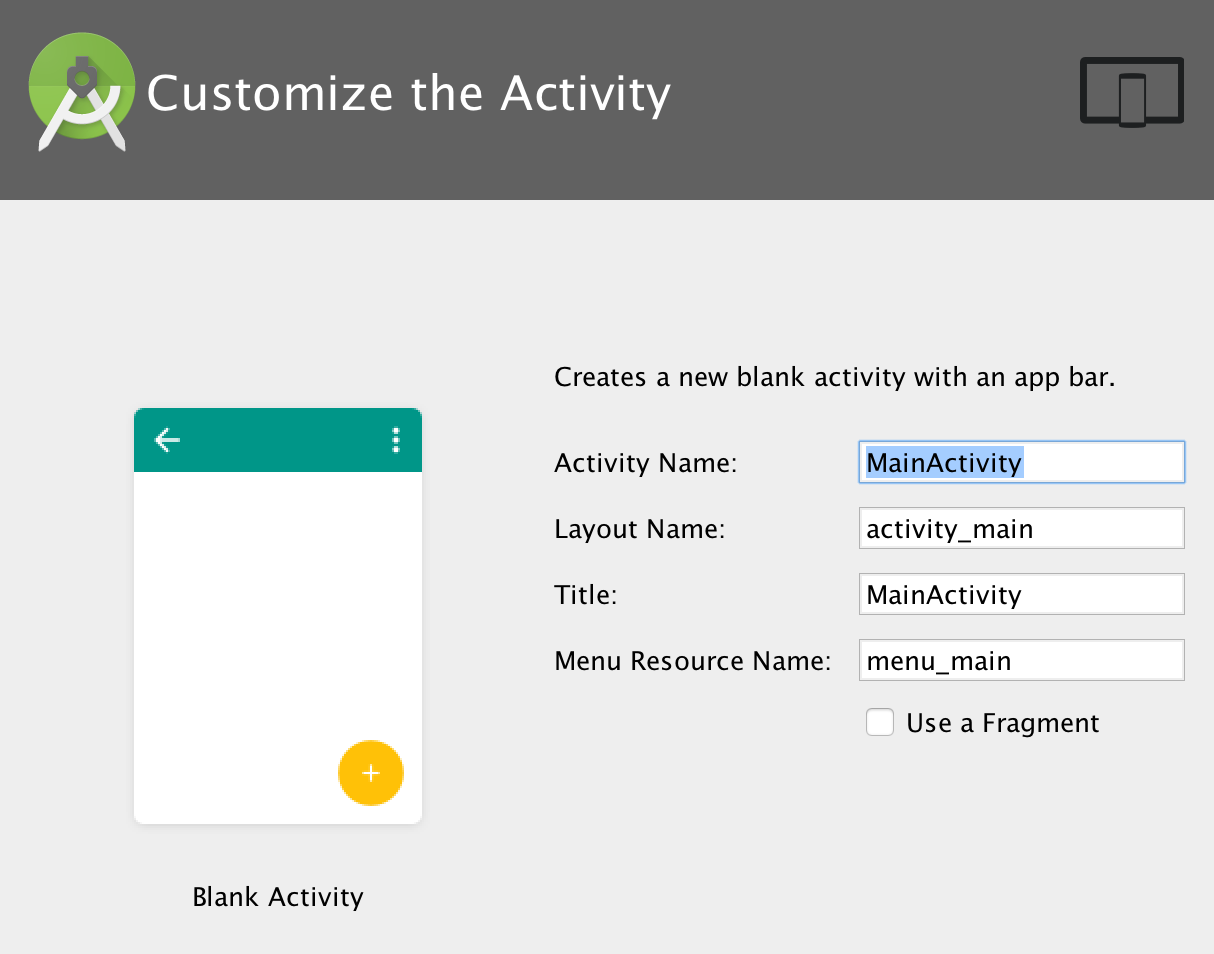
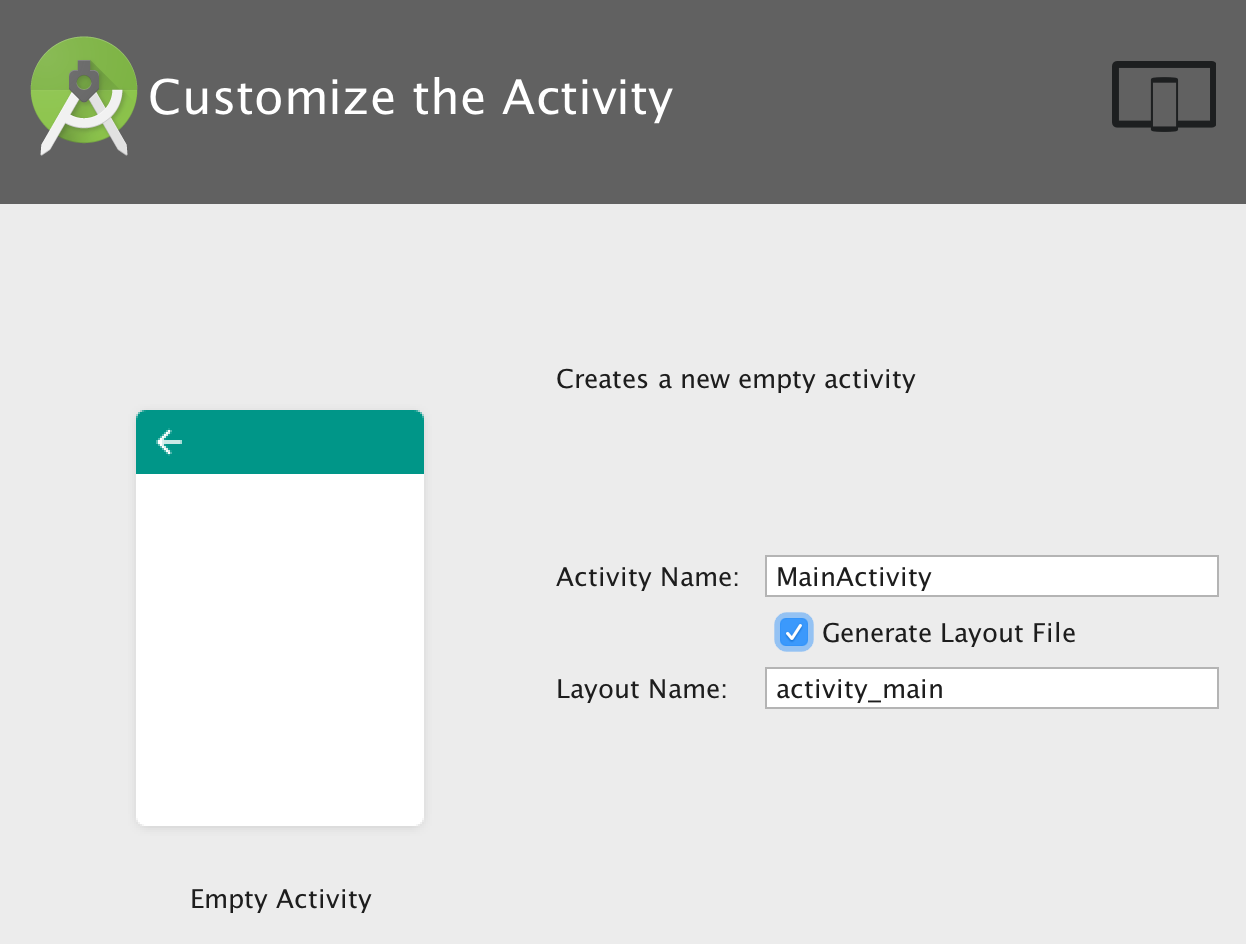
Update blog post

diff --git a/blog/_posts/2015-03-29-testing-activity-in-android-studio-tutorial-part-1.md b/blog/_posts/2015-03-29-testing-activity-in-android-studio-tutorial-part-1.md
@@ -12,7 +12,7 @@ In this tutorial we will learn how to:
 * Create new test configuration and run the tests.
 * Write tests for basic UI interactions in activity.
 
-This tutorial is updated for Android Studio version 2.0.
+This tutorial is updated for Android Studio version 2.1.
 
 ### I assume you already know
 
@@ -40,9 +40,9 @@ Accept the default settings on "Target Android Devices" screen with just "Phone 
 
 <img src='/image/blog/2015-03-27-testing-ui-in-android-studio/0115_new_project_in_android_studio_form_activity.png' alt='Target android devices' class='isMax100PercentWide hasBorderShade90'>
 
-Select a **blank activity**.
+Select a **Empty Activity**.
 
-<img src='/image/blog/2015-03-27-testing-ui-in-android-studio/0120_new_project_select_blank_activity_in_android_studio.png' alt='Select new project with blank activity in Android Studio' class='isMax100PercentWide hasBorderShade90'>
+<img src='/image/blog/2015-03-27-testing-ui-in-android-studio/0120_new_project_select_empty_activity_in_android_studio.png' alt='Select new project with blank activity in Android Studio' class='isMax100PercentWide hasBorderShade90'>
 
 Next, keep default activity name: `MainActivity`. This name will be used in our code later.
 
